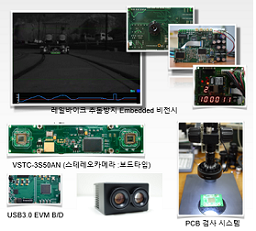
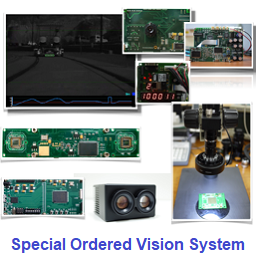
Add files via upload

diff --git a/index.html b/index.html
@@ -94,6 +94,17 @@
             </div>
             <div class="row">
                 <div class="col-sm-4 portfolio-item">
+                    <a href="#portfolioModal6" class="portfolio-link" data-toggle="modal">
+                        <div class="caption">
+                            <div class="caption-content">
+                                <i class="fa fa-search-plus fa-3x"></i>
+                            </div>
+                        </div>
+                        <img src="img/4chuvc.png" class="img-responsive" alt="4Ch. UVC Sync. Board & Camera">
+			4Ch. UVC Sync. Board and Camera
+                    </a>
+                </div>
+                <div class="col-sm-4 portfolio-item">
                     <a href="#portfolioModal1" class="portfolio-link" data-toggle="modal">
                         <div class="caption">
                             <div class="caption-content">
@@ -101,6 +112,7 @@
                             </div>
                         </div>
                         <img src="img/stereo.png" class="img-responsive" alt="Stereo Camera">
+			   Real-Time Stereo Camera
                     </a>
                 </div>
                 <div class="col-sm-4 portfolio-item">
@@ -111,6 +123,7 @@
                             </div>
                         </div>
                         <img src="img/vc.png" class="img-responsive" alt="Industrial Camera">
+			Industrial Camera
                     </a>
                 </div>
                 <div class="col-sm-4 portfolio-item">
@@ -121,6 +134,7 @@
                             </div>
                         </div>
                         <img src="img/industrial.png" class="img-responsive" alt="Industrial Application">
+			Industrial Vision Application
                     </a>
                 </div>
                 <div class="col-sm-4 portfolio-item">
@@ -131,6 +145,7 @@
                             </div>
                         </div>
                         <img src="img/special.png" class="img-responsive" alt="Special System">
+			Special Ordered Vision System
                     </a>
                 </div>
                 <div class="col-sm-4 portfolio-item">
@@ -141,16 +156,7 @@
                             </div>
                         </div>
                         <img src="img/boards.png" class="img-responsive" alt="Boards">
-                    </a>
-                </div>
-                <div class="col-sm-4 portfolio-item">
-                    <a href="#portfolioModal6" class="portfolio-link" data-toggle="modal">
-                        <div class="caption">
-                            <div class="caption-content">
-                                <i class="fa fa-search-plus fa-3x"></i>
-                            </div>
-                        </div>
-                        <img src="img/4chuvc.png" class="img-responsive" alt="4Ch. UVC Sync. Board & Camera">
+			Board Type Products
                     </a>
                 </div>
             </div>
